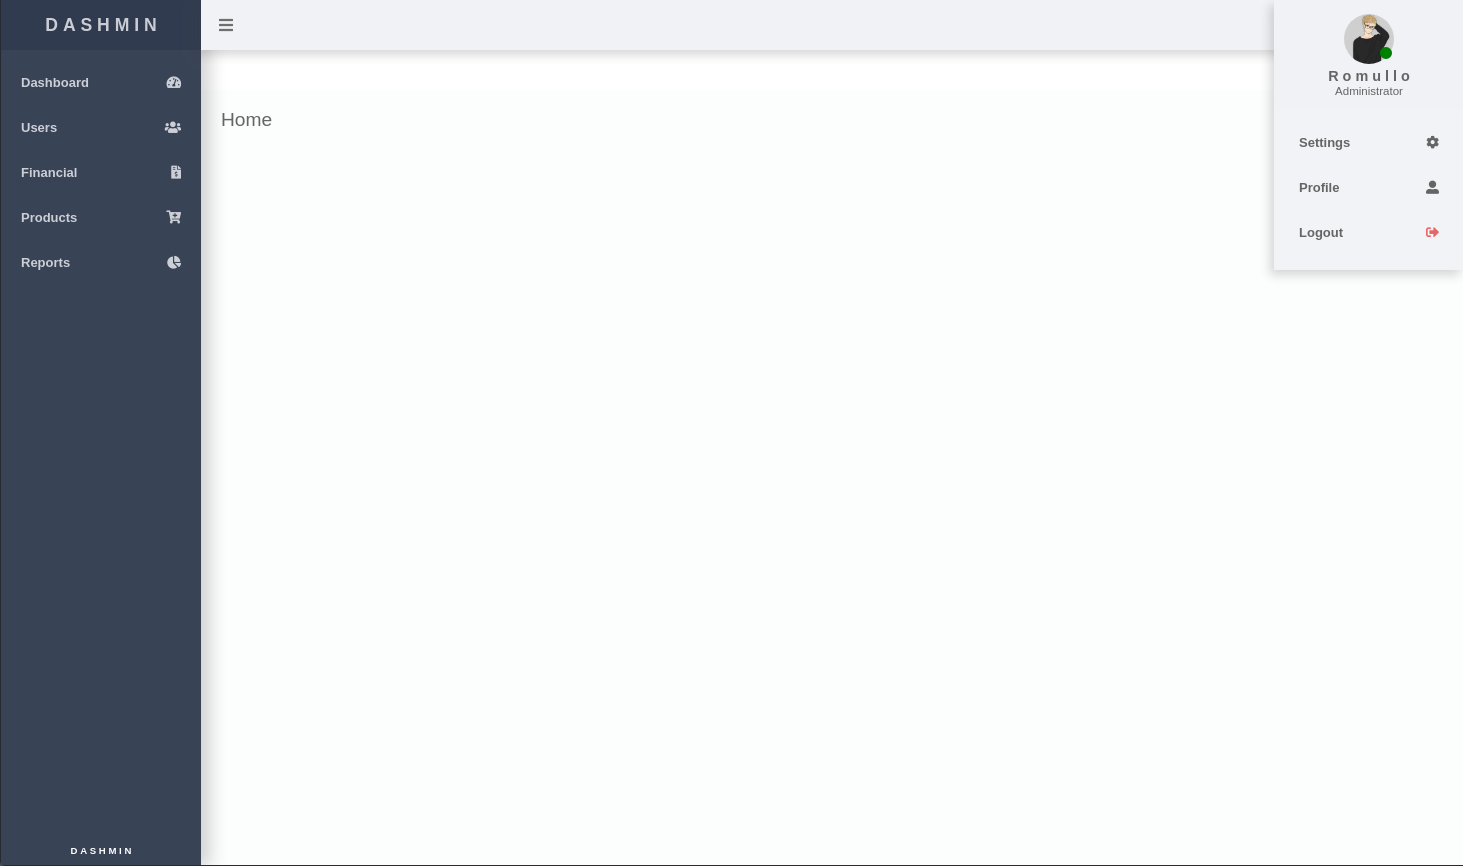
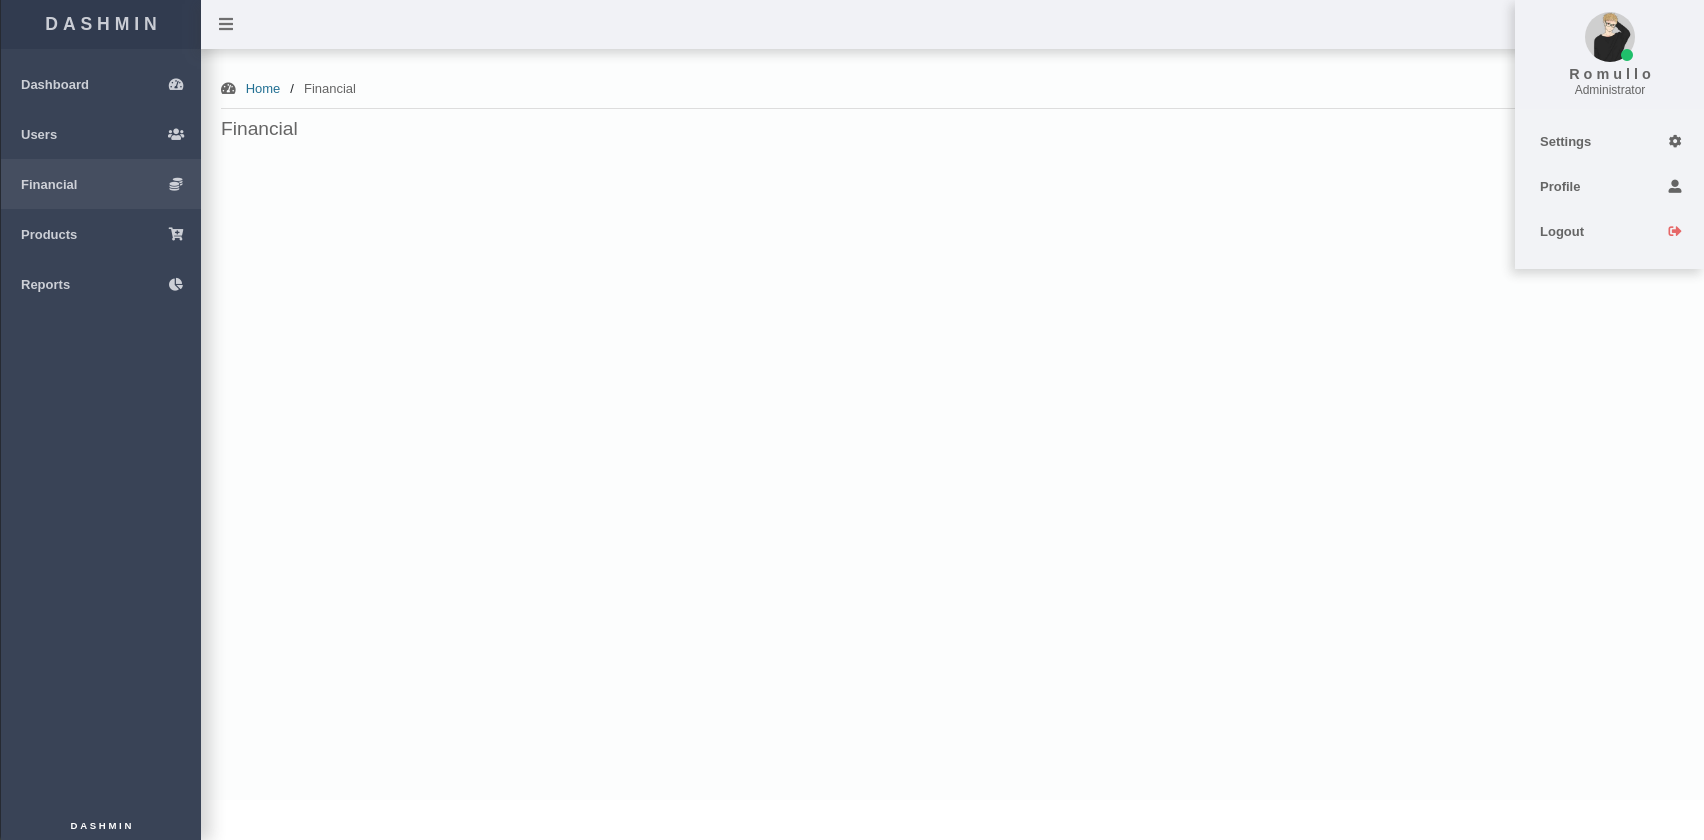
Breadcrumb added

diff --git a/src/components/Breadcrumb.js b/src/components/Breadcrumb.js
@@ -1,36 +1,14 @@
 // Imports
 import React from 'react';
-import styled from 'styled-components';
-import { Link } from 'react-router-dom';
+import Breadcrumb from 'react-minimal-breadcrumb';
+import PropTypes from 'prop-types';
 
-// Styles
-const Breadcrumb = styled.div`
-  font-family: Arial, Helvetica, sans-serif;
-  height: 40px;
-  width: 100%;
-  background: #ddd;
-  display: flex;
-  justify-content: right;
-  align-items: center;
-  margin-bottom: 10px;
-  padding: 0 10px 0 10px;
-`;
+// Main
+const Main = ({ routes }) => <Breadcrumb routes={routes} />;
 
-const Main = () => {
-  let path = document.location.pathname;
-  let paths = path.split('/');
+// ProTypes
+Main.propTypes = {
+  routes: PropTypes.arrayOf(PropTypes.object).isRequired,
+};
 
-  const newPaths = [];
-  paths.map(route => (
-    route !== '' ? newPaths.push(`/${route}`) : newPaths.push('')
-  ));
-
-  return (
-    <Breadcrumb>
-      {newPaths.map(route => (
-        <Link to={route}>{route}</Link>
-      ))}
-    </Breadcrumb>
-  );
-}
 export default Main;

diff --git a/src/components/Content.js b/src/components/Content.js
@@ -16,7 +16,7 @@ const Content = styled.div`
   width: 100%;
   background: rgba(241, 242, 246, .2);
   z-index: 99;
-  transition: .2s;
+  transition: all .2s ease 0s;
 
   @media only screen and (min-width: 576px) {
     width: ${props => (props.view === 'min' ? `calc(${100}% - ${50}px)` : `calc(${100}% - ${200}px)`)};
@@ -32,13 +32,13 @@ const Main = ({ routes }) => {
   return (
     <Content view={dashboard.content}>
       <Switch>
-        <Breadcrumb />
+        <Breadcrumb routes={routes} />
       </Switch>
       <Switch>
         {routes.map(route => (
           route.route === '/'
-            ? <Route key={route} exact path={route.route} component={route.page} />
-            : <Route key={route} path={route.route} component={route.page} />
+            ? <Route key={route.route} exact path={route.route} component={route.page} />
+            : <Route key={route.route} path={route.route} component={route.page} />
         ))}
       </Switch>
     </Content>

diff --git a/src/dashmin.js b/src/dashmin.js
@@ -30,38 +30,7 @@ const Main = () => (
         }}
 
         // Buttons
-        buttons={[
-          {
-            id: 1,
-            name: 'Dashboard',
-            icon: 'fas fa-tachometer-alt',
-            route: '/',
-          },
-          {
-            id: 2,
-            name: 'Users',
-            icon: 'fas fa-users',
-            route: '/users',
-          },
-          {
-            id: 3,
-            name: 'Financial',
-            icon: 'fas fa-coins',
-            route: '/financial',
-          },
-          {
-            id: 4,
-            name: 'Products',
-            icon: 'fas fa-cart-plus',
-            route: '/products',
-          },
-          {
-            id: 5,
-            name: 'Reports',
-            icon: 'fas fa-chart-pie',
-            route: '/reports',
-          },
-        ]}
+        buttons={routes}
       />
 
       {/* Content */}

diff --git a/src/routes/index.js b/src/routes/index.js
@@ -5,22 +5,32 @@ import pages from '../pages';
 const Routes = [
   {
     route: '/',
-    page: pages.Home,
+    name: 'Dashboard',
+    icon: 'fas fa-tachometer-alt',
+    page: pages.Dashboard,
   },
   {
     route: '/users',
+    name: 'Users',
+    icon: 'fas fa-users',
     page: pages.Users,
   },
   {
     route: '/financial',
+    name: 'Financial',
+    icon: 'fas fa-coins',
     page: pages.Financial,
   },
   {
     route: '/products',
+    name: 'Products',
+    icon: 'fas fa-cart-plus',
     page: pages.Products,
   },
   {
     route: '/reports',
+    name: 'Reports',
+    icon: 'fas fa-chart-pie',
     page: pages.Reports,
   },
 ];

diff --git a/src/components/Sidebar.js b/src/components/Sidebar.js
@@ -14,7 +14,7 @@ const Sidebar = styled.div`
   background: #313B4F;
   z-index: 100;
   box-shadow: 10px 2px 15px rgba(56, 56, 56, 0.2);
-  transition: .1s;
+  transition: all .1s ease 0s;
   overflow: hidden;
 
   @media only screen and (min-width: 576px) {
@@ -123,7 +123,7 @@ const Main = ({ brand, buttons }) => {
     <ListButtons view={sidebar}>
       {buttons.map(btn => (
         <Btn
-          key={btn.id}
+          key={Math.random()}
           view={sidebar}
           to={btn.route}
           onClick={() => setClick(btn.route)}

diff --git a/src/components/Navbar.js b/src/components/Navbar.js
@@ -15,7 +15,7 @@ const Navbar = styled.div`
   background: #f1f2f6;
   z-index: 101;
   box-shadow: -4px 5px 10px rgba(56, 56, 56, 0.2);
-  transition: .1s;
+  transition: all .1s ease 0s;
 
   @media only screen and (min-width: 576px) {
     width: ${props => (props.view === 'min' ? `calc(${100}% - ${50}px)` : `calc(${100}% - ${200}px)`)};

diff --git a/src/pages/index.js b/src/pages/index.js
@@ -1,12 +1,12 @@
 // Pages
-import Home from './Home';
+import Dashboard from './Dashboard';
 import Users from './Users';
 import Financial from './Financial';
 import Products from './Products';
 import Reports from './Reports';
 
 const pages = ({
-  Home,
+  Dashboard,
   Users,
   Financial,
   Products,

diff --git a/src/pages/Dashboard/index.js b/src/pages/Dashboard/index.js
@@ -10,10 +10,10 @@ const Title = styled.h1`
 `;
 
 // Products
-const Home = () => (
+const Dashboard = () => (
   <div>
-    <Title>Home</Title>
+    <Title>Dashboard</Title>
   </div>
 );
 
-export default Home;
+export default Dashboard;
